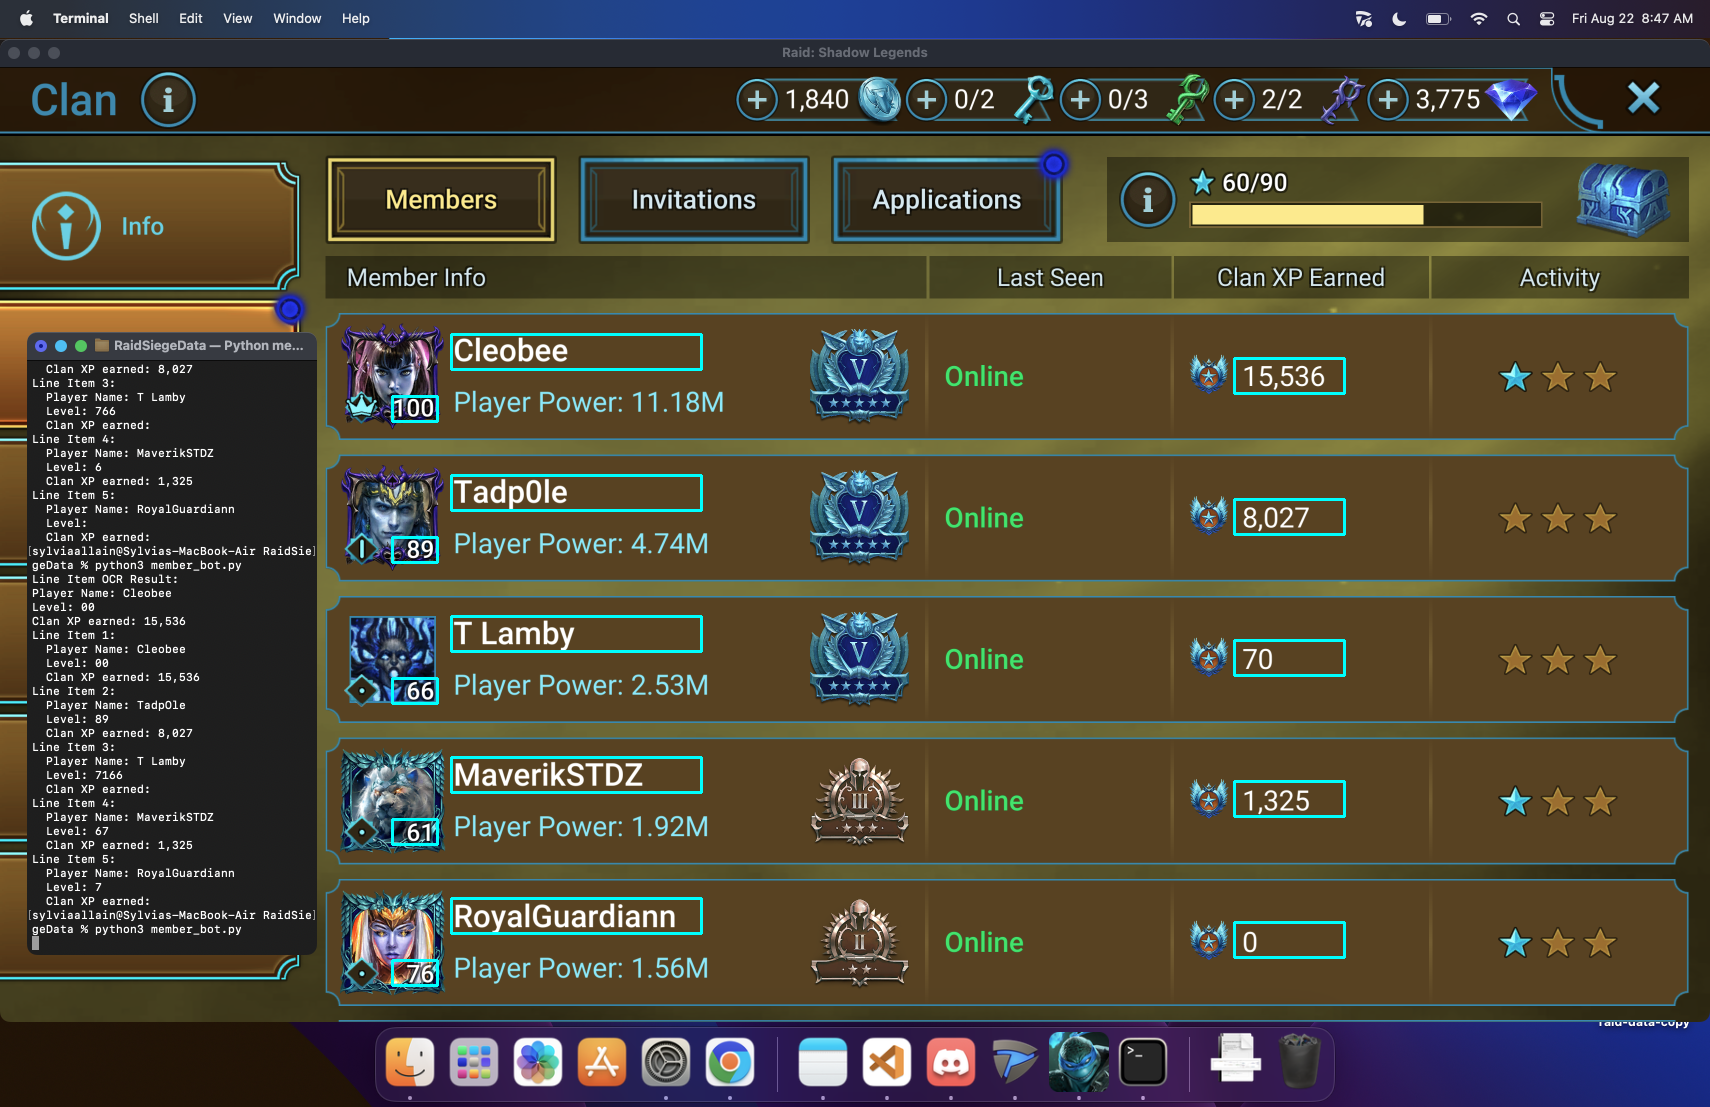
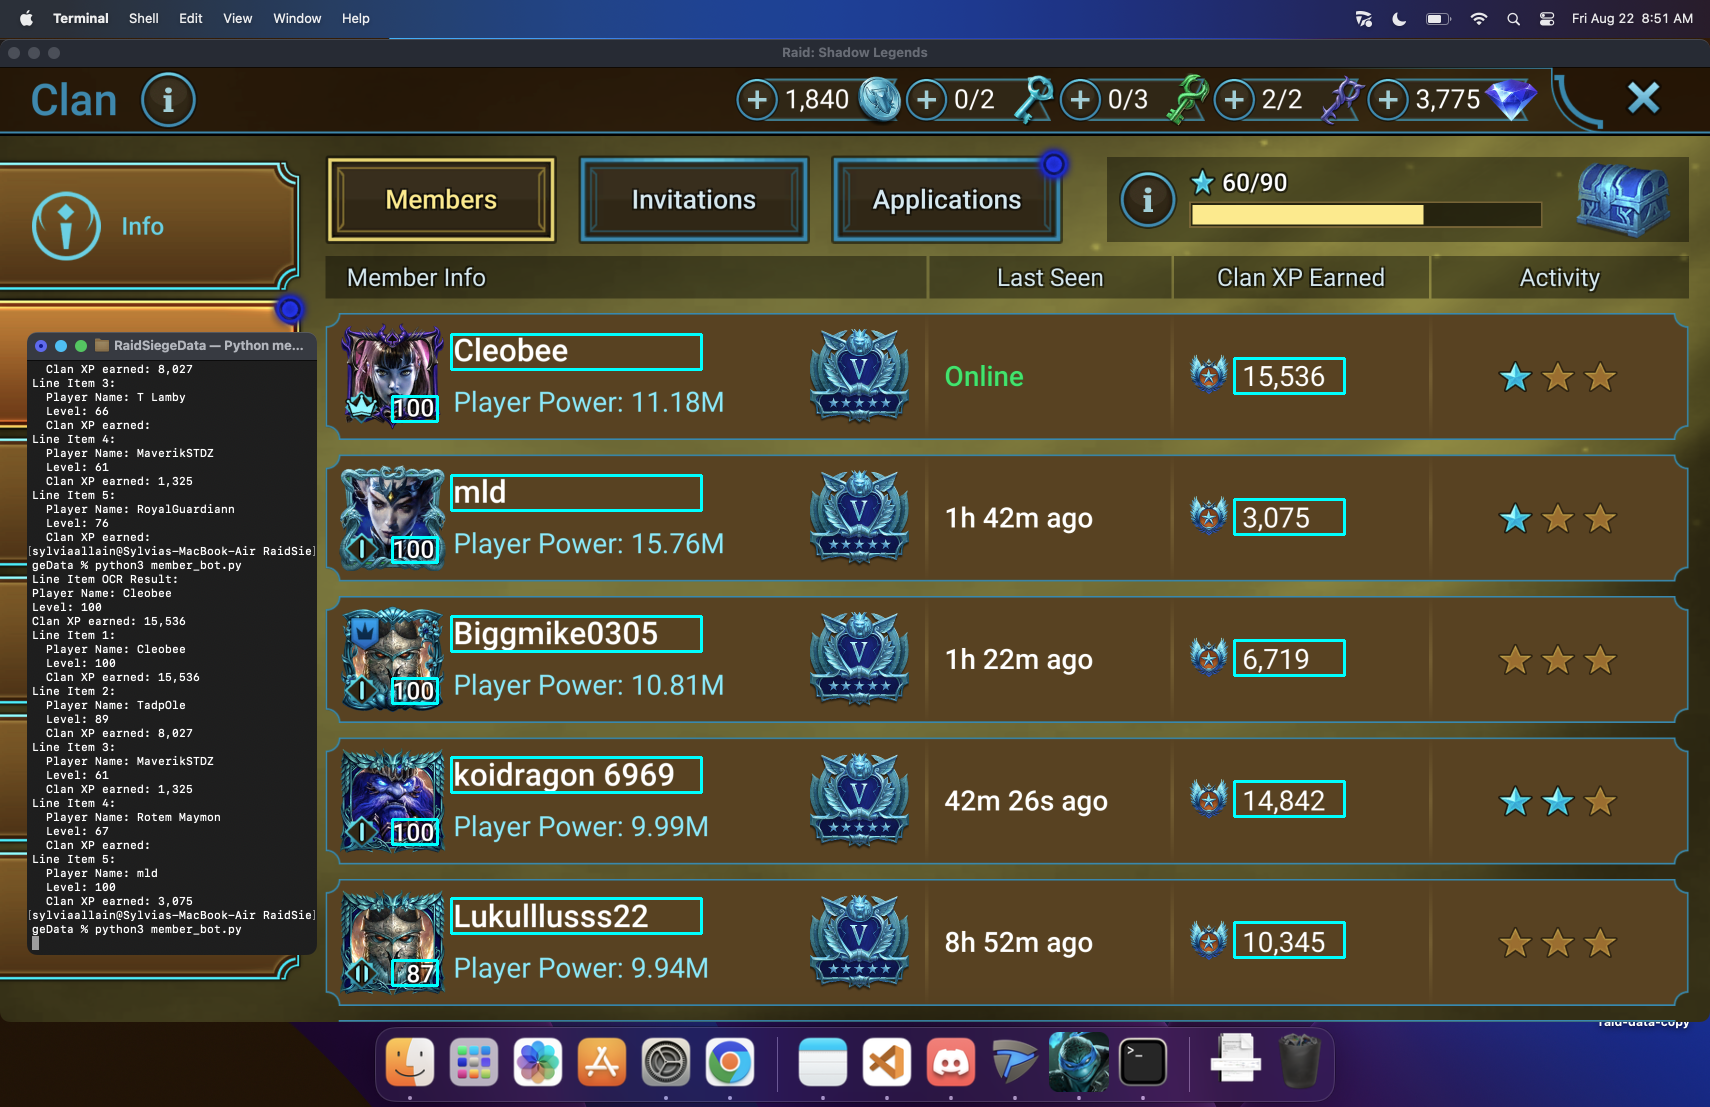
Accurate level readings

diff --git a/member_bot.py b/member_bot.py
@@ -38,9 +38,10 @@ def read_single_line_item(upper_left, debug_img_path=None):
             kernel = np.ones((2,2), np.uint8)
             cleaned = cv2.morphologyEx(thresh, cv2.MORPH_OPEN, kernel)
             img = Image.fromarray(cleaned)
-            img = img.resize((img.width * 2, img.height * 2), Image.BICUBIC)
+            # Upscale the image for better OCR
+            img = img.resize((img.width * 3, img.height * 3), Image.BICUBIC)
             img.save(f"debug/level_field_{y1}_{x1}.png")
-            custom_config = r'--oem 3 --psm 8 -c tessedit_char_whitelist=0123456789'
+            custom_config = r'--oem 3 --psm 10 -c tessedit_char_whitelist=0123456789'
             text = pytesseract.image_to_string(img, config=custom_config).strip()
         else:
             img = Image.fromarray(crop)
@@ -91,13 +92,6 @@ def read_all_line_items(start_upper_left, num_items=5, item_height=141, debug_im
     return results
 
 if __name__ == "__main__":
-    line_item = read_single_line_item(
-        upper_left=(339, 313),
-        debug_img_path="debug/member_bot_lineitem.png"
-    )
-    print("Line Item OCR Result:")
-    for k, v in line_item.items():
-        print(f"{k}: {v}")
 
     all_items = read_all_line_items(
         start_upper_left=(339, 313),
